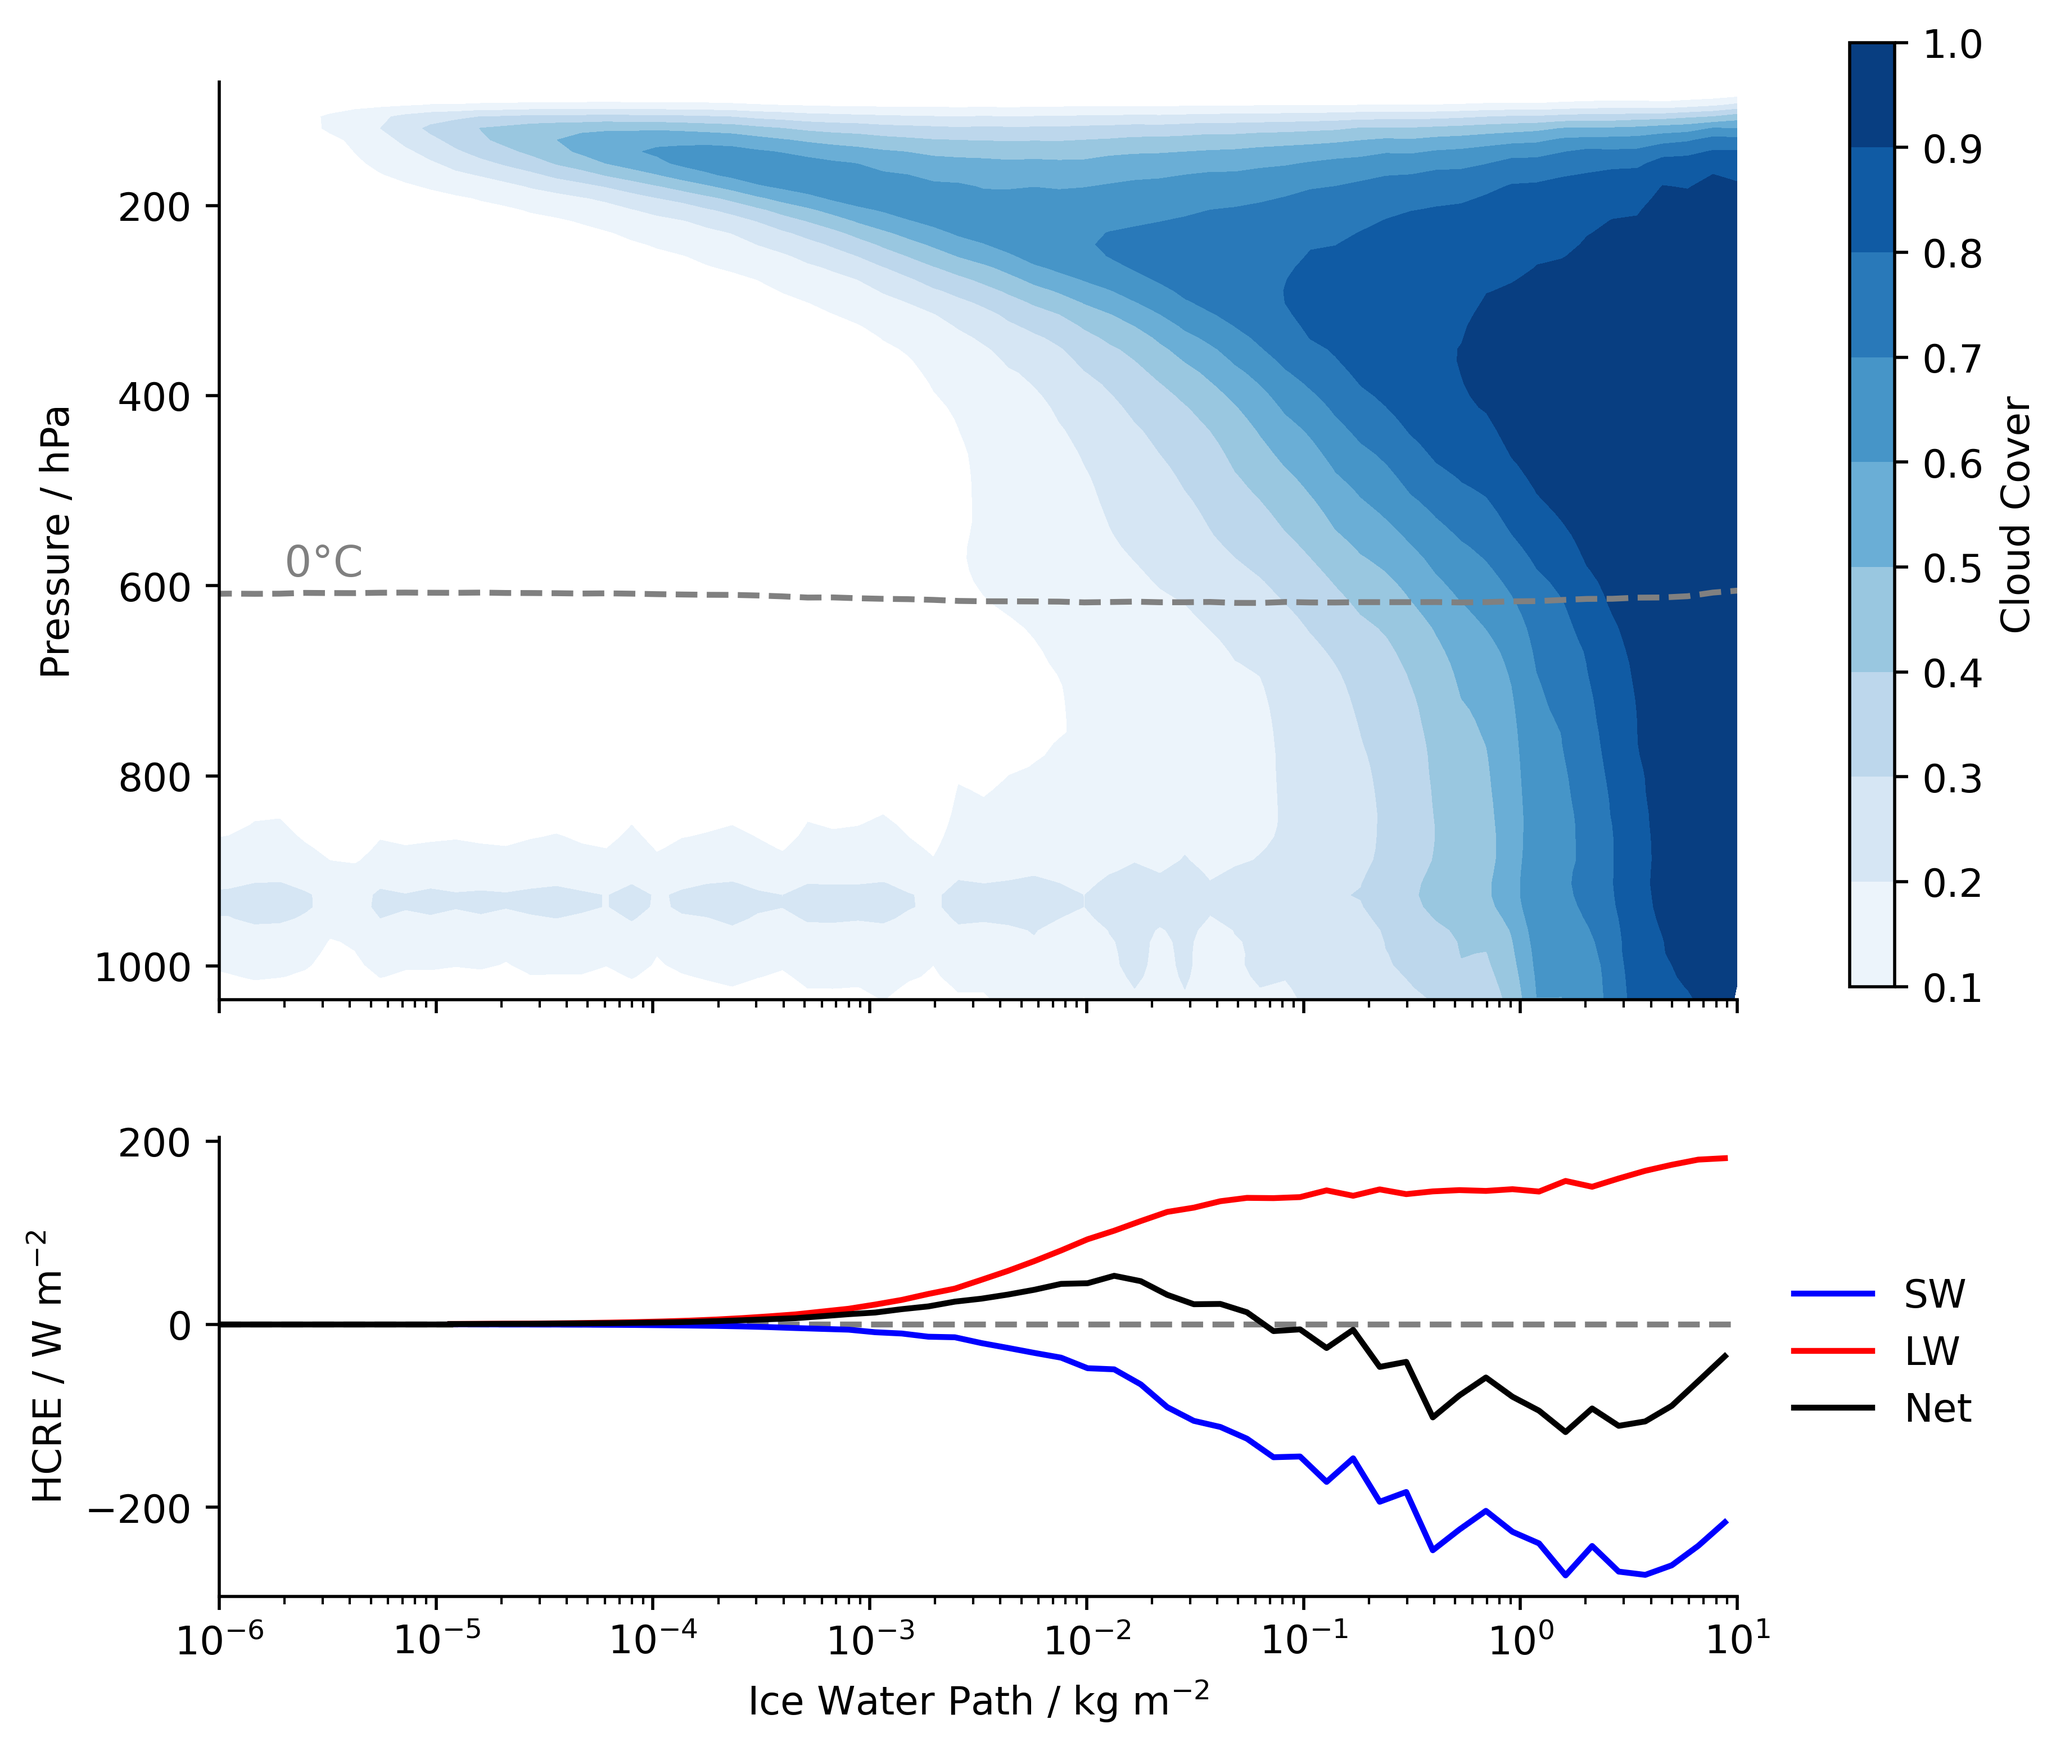
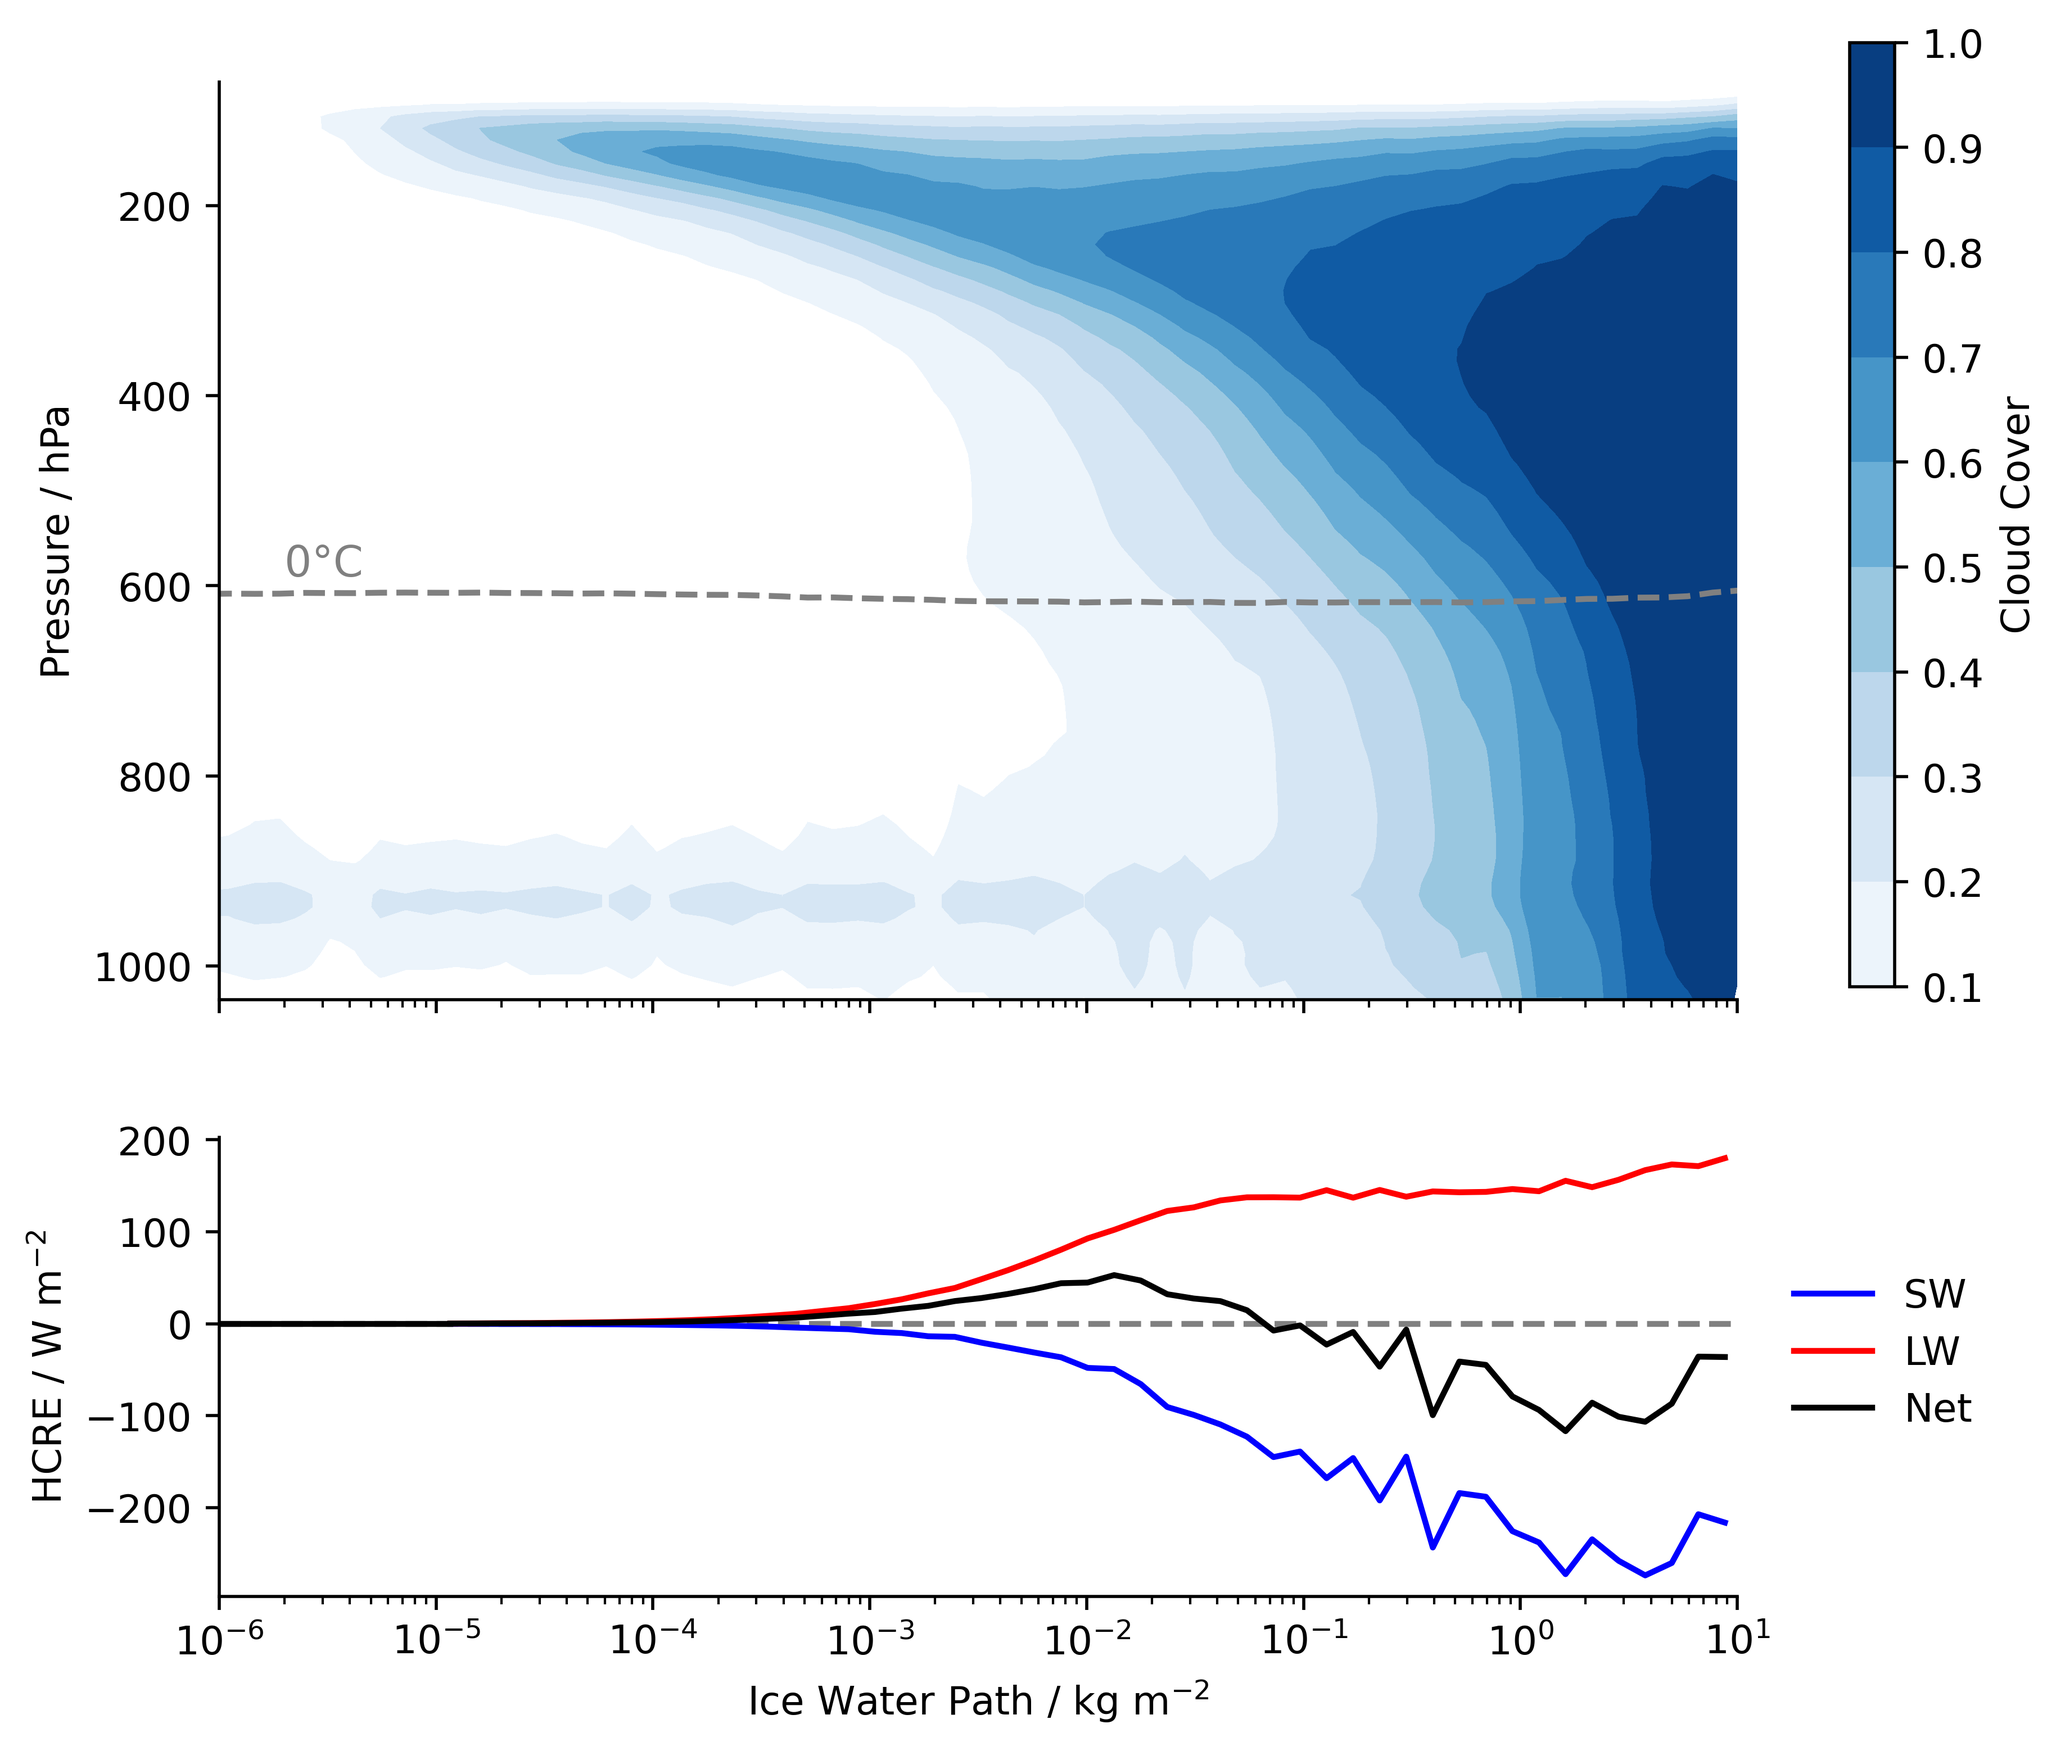
Poster plots finished

diff --git a/src/plot_functions.py b/src/plot_functions.py
@@ -614,12 +614,12 @@ def plot_connectedness(sample, mask, liq_cld_cond, ice_cld_cond, mode="icon"):
     - axes: The matplotlib axes object.
     """
 
-    fig, axes = plt.subplots(2, 6, figsize=(16, 10), sharey="row")
-    iwp_bins = np.logspace(-5, 1, 7)
+    fig, axes = plt.subplots(2, 3, figsize=(8, 8), sharey="row")
+    iwp_bins = np.logspace(-5, 1, 4)
     formatter = ScalarFormatter(useMathText=True)
     formatter.set_powerlimits((-1, 2))
 
-    for i in range(6):
+    for i in range(3):
         ax2 = plot_condensate(
             sample, axes[0, i], iwp_bins[i], iwp_bins[i + 1], mask, liq_cld_cond, ice_cld_cond, mode
         )
@@ -631,9 +631,9 @@ def plot_connectedness(sample, mask, liq_cld_cond, ice_cld_cond, mode="icon"):
     fig.legend(
         handles + handles2,
         labels + labels2,
-        bbox_to_anchor=(0.5, 0.35),
+        bbox_to_anchor=(0.5, 0.3),
         loc="lower center",
-        ncols=7,
+        ncols=4,
     )
     if mode == "icon":
         axes[0, 0].set_ylabel("Model Level")
@@ -706,7 +706,7 @@ def plot_model_output_arts_fancy(
     cs_consts,
     sample,
 ):
-    fig = plt.figure(figsize=(15, 10))
+    fig = plt.figure(figsize=(15, 9))
     mask_tuning = lw_vars["mask_height"] & lw_vars["mask_hc_no_lc"]
     IWP_points = (IWP_bins[1:] + IWP_bins[:-1]) / 2
 
@@ -838,30 +838,7 @@ def plot_model_output_arts_fancy(
     ax6.set_ylabel(r"$\alpha_t$")
     ax6.legend()
 
-    # CRE
-    ax7 = fig.add_subplot(3, 2, 5)
-    ax7.plot(cre_average["IWP"], cre_average["connected_sw"], color="blue", linestyle="--")
-    ax7.plot(cre_average["IWP"], cre_average["connected_lw"], color="red", linestyle="--")
-    ax7.plot(cre_average["IWP"], cre_average["connected_net"], color="black", linestyle="--")
-    ax7.plot(result["SW_cre"], color="blue", label="SW", linestyle="-")
-    ax7.plot(result["LW_cre"], color="red", label="LW", linestyle="-")
-    ax7.plot(result["SW_cre"] + result["LW_cre"], color="black", label="Net", linestyle="-")
-    ax7.set_ylabel("HCRE / W m$^{-2}$")
-    handles, label = ax7.get_legend_handles_labels()
-    # fake lines for legend
-    ax7.plot([], [], color="grey", linestyle="--", label="ARTS")
-    ax7.plot([], [], color="grey", linestyle="-", label="Concept")
-    ax7.legend()
-
-    # IWP histogram
-    ax8 = fig.add_subplot(3, 2, 6)
-    n_profiles = len(sample.lat) * len(sample.lon)
-    hist, edges = np.histogram(sample["IWP"].where(sample["mask_height"]), bins=IWP_bins)
-    hist = hist / n_profiles
-    ax8.stairs(hist, edges, color="k")
-    ax8.set_ylabel(r"$P$")
-
-    axes = [ax1, ax2, ax3, ax4, ax5, ax6, ax7, ax8]
+    axes = [ax1, ax2, ax3, ax4, ax5, ax6]
     for ax in axes:
         ax.set_xscale("log")
         ax.spines["top"].set_visible(False)
@@ -875,10 +852,9 @@ def plot_model_output_arts_fancy(
     ax4.set_xticklabels(["1e-5", "1e-4", "1e-3", "1e-2", "1e-1", "1e0", "1e1"])
     ax5.set_xticklabels(["1e-5", "1e-4", "1e-3", "1e-2", "1e-1", "1e0", "1e1"])
     ax6.set_xticklabels(["1e-5", "1e-4", "1e-3", "1e-2", "1e-1", "1e0", "1e1"])
-    ax7.set_xlabel("Ice Water Path / kg m$^{-2}$")
-    ax7.set_xticklabels(["1e-5", "1e-4", "1e-3", "1e-2", "1e-1", "1e0", "1e1"])
-    ax8.set_xlabel("Ice Water Path / kg m$^{-2}$")
-    ax8.set_xticklabels(["1e-5", "1e-4", "1e-3", "1e-2", "1e-1", "1e0", "1e1"])
+    ax4.set_xlabel("Ice Water Path / kg m$^{-2}$")
+    ax5.set_xlabel("Ice Water Path / kg m$^{-2}$")
+    ax6.set_xlabel("Ice Water Path / kg m$^{-2}$")
 
     # add colorbars
     fig.subplots_adjust(right=0.9)
@@ -886,22 +862,5 @@ def plot_model_output_arts_fancy(
     cbar_ax2 = fig.add_axes([0.91, 0.38, 0.01, 0.22])
     fig.colorbar(sc_alpha, cax=cbar_ax1, label="SW Down / W m$^{-2}$")
     fig.colorbar(sc_rt, cax=cbar_ax2, label="LWP / kg m$^{-2}$")
-
-    # add folded CRE
-    sw_arts = np.sum(cre_average["connected_sw"] * hist)
-    lw_arts = np.sum(cre_average["connected_lw"] * hist)
-    net_arts = np.sum(cre_average["connected_net"] * hist)
-    sw_concept = np.sum(result["SW_cre"] * hist)
-    lw_concept = np.sum(result["LW_cre"] * hist)
-    net_concept = np.sum((result["SW_cre"] + result["LW_cre"]) * hist)
-    fig.text(0.8, 0.33, r" HCRE $\cdot$ P :", color="k", fontsize=11, fontweight="bold")
-    fig.text(0.8, 0.31, "ARTS:", color="k", fontsize=11)
-    fig.text(0.84, 0.31, f"SW: {sw_arts:.2f} W m$^{-2}$", color="blue", fontsize=11)
-    fig.text(0.84, 0.29, f"LW: {lw_arts:.2f} W m$^{-2}$", color="red", fontsize=11)
-    fig.text(0.84, 0.27, f"Net: {net_arts:.2f} W m$^{-2}$", color="k", fontsize=11)
-    fig.text(0.785, 0.25, "Concept:", color="k", fontsize=11)
-    fig.text(0.84, 0.25, f"SW: {sw_concept:.2f} W m$^{-2}$", color="blue", fontsize=11)
-    fig.text(0.84, 0.23, f"LW: {lw_concept:.2f} W m$^{-2}$", color="red", fontsize=11)
-    fig.text(0.84, 0.21, f"Net: {net_concept:.2f} W m$^{-2}$", color="k", fontsize=11)
 
     return fig, axes

diff --git a/scripts/plot/paper/cloud_profile_iwp.py b/scripts/plot/paper/cloud_profile_iwp.py
@@ -173,4 +173,95 @@ for ax in axes:
 
 fig.savefig("plots/paper/cloud_profile_iwp.png", dpi=500, bbox_inches="tight")
 
+# %% plot just CRE and IWP dist and folded cre for poster 
+
+def control_plot(ax):
+    ax.set_xlim(1e-5, 10)
+    ax.set_xticks([1e1, 1e0, 1e-1, 1e-2, 1e-3, 1e-4, 1e-5])
+    ax.spines[["top", "right"]].set_visible(False)
+
+fig, axes = plt.subplots(2, 1, figsize=(9, 11), sharex=True, gridspec_kw={"height_ratios": [2, 1]})
+
+# CRE 
+axes[0].axhline(0, color="grey", linestyle="--")
+axes[0].plot(
+    cre_interpolated_average.IWP,
+    cre_interpolated_average["connected_sw"],
+    label="SW",
+    color="blue",
+    linestyle="--",
+)
+axes[0].plot(
+    cre_interpolated_average.IWP,
+    cre_interpolated_average["connected_lw"],
+    label="LW",
+    color="red",
+    linestyle="--",
+)
+axes[0].plot(
+    cre_interpolated_average.IWP,
+    cre_interpolated_average["connected_net"],
+    label="Net",
+    color="k",
+    linestyle="--",
+)
+axes[0].plot(result.index, result["SW_cre"], color="blue")
+axes[0].plot(result.index, result["LW_cre"], color="red")
+axes[0].plot(result.index, result["SW_cre"] + result["LW_cre"], color="k")
+axes[0].plot(np.linspace(1 - 6, cre_interpolated_average.IWP.min(), 100), np.zeros(100), color="k")
+axes[0].plot([], [], color="grey", linestyle="--", label="ARTS")
+axes[0].plot([], [], color="grey", linestyle="-", label="Concept")
+axes[0].set_ylabel("HCRE / W m$^{-2}$")  
+
+# IWP dist
+axes[1].stairs(hist, edges, label="IWP", color="black")
+axes[1].set_xscale("log")
+axes[1].set_ylabel("P")
+axes[1].set_xlabel("Ice Water Path / kgm$^{-2}$")
+
+
+
+# # weighted CRE
+# axes[2].axhline(0, color="grey", linestyle="--")
+# axes[2].plot(cre_interpolated_average.IWP, weighted_sw, color="blue", linestyle="--")
+# axes[2].plot(cre_interpolated_average.IWP, weighted_lw, color="red", linestyle="--")
+# axes[2].plot(cre_interpolated_average.IWP, weighted_net, color="k", linestyle="--")
+# axes[2].plot(cre_interpolated_average.IWP, weighted_sw_cm, label="SW", color="blue")
+# axes[2].plot(cre_interpolated_average.IWP, weighted_lw_cm, label="LW", color="red")
+# axes[2].plot(cre_interpolated_average.IWP, weighted_net_cm, label="Net", color="k")
+# axes[2].plot(np.linspace(1 - 6, cre_interpolated_average.IWP.min(), 100), np.zeros(100), color="k")
+# axes[2].set_ylabel("HCRE $\cdot$ P / W m$^{-2}$")
+# axes[2].set_xlabel("IWP / kgm$^{-2}$")
+# axes[2].plot([], [], color="grey", linestyle="--", label="ARTS")
+# axes[2].plot([], [], color="grey", linestyle="-", label="Concept")
+
+fig.subplots_adjust(bottom=0.3)
+fig.text(0.1, 0.12, r"$\sum_{IWP}$ HCRE $\cdot$ P :", color="black", fontsize=12)
+fig.text(0.3, 0.12, "ARTS", color='k') 
+fig.text(0.3, 0.1, f"SW: {weighted_sw.sum():.2f} W/m$^2$", color="blue")
+fig.text(0.3, 0.08, f"LW: {weighted_lw.sum():.2f} W/m$^2$", color="red")
+fig.text(0.3, 0.06, f"Net: {weighted_net.sum():.2f} W/m$^2$", color="black")
+fig.text(0.55, 0.12, "Concept", color='k')
+fig.text(0.55, 0.1, f"SW: {weighted_sw_cm.sum():.2f} W/m$^2$", color="blue")
+fig.text(0.55, 0.08, f"LW: {weighted_lw_cm.sum():.2f} W/m$^2$", color="red")
+fig.text(0.55, 0.06, f"Net: {weighted_net_cm.sum():.2f} W/m$^2$", color="black")
+
+for ax in axes:
+    control_plot(ax)
+
+# add legend 
+handles, labels = axes[0].get_legend_handles_labels()
+fig.legend(
+    labels=labels,
+    handles=handles,
+    bbox_to_anchor=(0.78, 0.24),
+    ncols=5
+)
+
+fig.savefig("plots/paper/cre_weighting.png", dpi=500, bbox_inches="tight")
+
+
+
+
+
 # %%

diff --git a/scripts/plot/paper/cloud_profile.py b/scripts/plot/paper/cloud_profile.py
@@ -112,7 +112,6 @@ for ax in axes:
     ax.set_xticks([1e1, 1e0, 1e-1, 1e-2, 1e-3, 1e-4, 1e-5])
     ax.set_xscale("log")
 
-fig.savefig("plots/paper/cloud_profile.svg", bbox_inches="tight")
 fig.savefig("plots/paper/cloud_profile.png", dpi=500, bbox_inches="tight")
 
 
